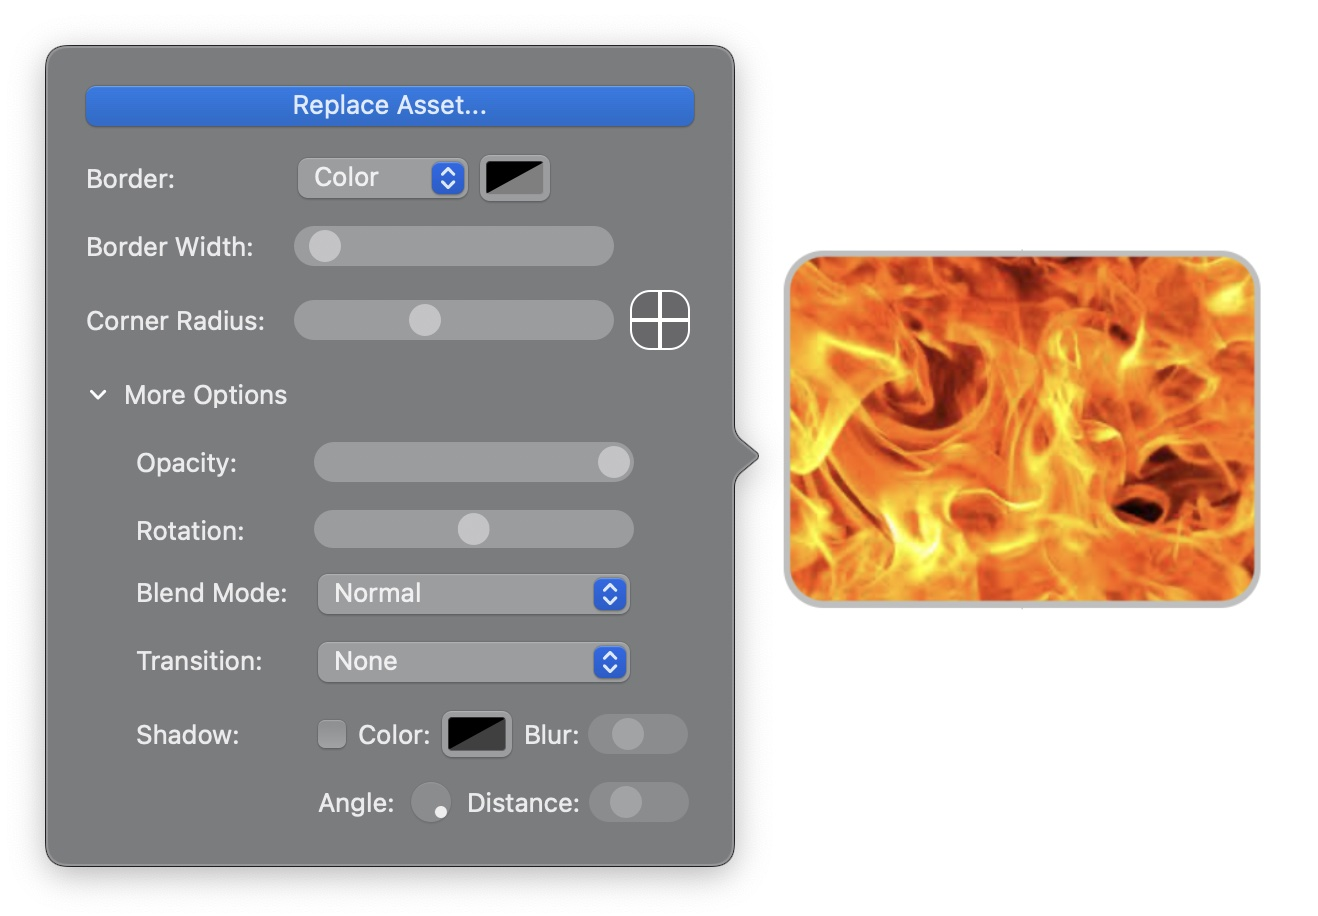
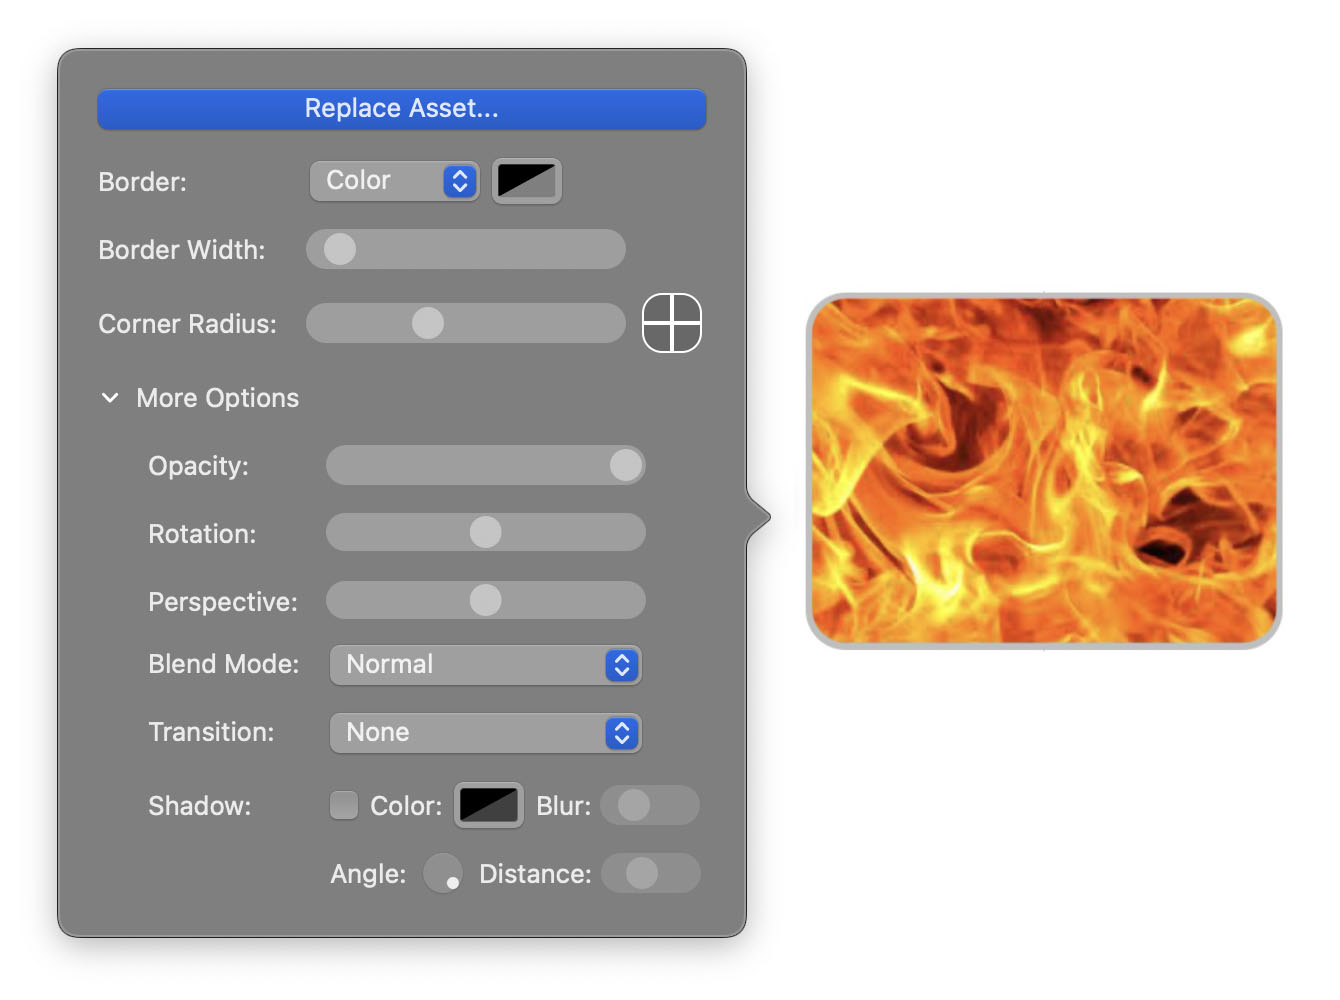
v4.2

diff --git a/docs/_ecamm-live-manual/016-virtual-webcam-and-outputs.md b/docs/_ecamm-live-manual/016-virtual-webcam-and-outputs.md
@@ -10,19 +10,19 @@ Ecamm Live's Virtual Webcam feature allows you to use all of the features of Eca
 
 Activate Virtual Webcam by choosing <samp>On</samp> in <samp>Outputs</samp> ➝ <samp>Virtual Webcam</samp>. It can also be activated using <samp>Virtual Cam</samp> toggle in the Mode menu at the top of the Main Window.
 
-![](/assets/img/vcamtoggle.jpg){: width="421px"}
+If this is your first time using the feature, you'll be prompted to install the Virtual Webcam System Extension. The installation process will prompt you for your Mac's administrator password. Once installed, macOS will automatically block the newly installed extension, and then prompt you to unblock it.
 
-If this is your first time using the feature, you'll be prompted to install the Virtual Webcam. Once installed, you may need to quit any video apps that are already open before the Virtual Webcam is recognized.
+![](/assets/img/blocked.png){: width="372px"}
+
+Click <samp>Allow</samp> in the <samp>Privacy & Security</samp> section of the System Settings application to complete the installation.
+
+![](/assets/img/privacy.png){: width="590px"}
+
+Once installed, you may need to quit any video apps that are already open before the Virtual Webcam is recognized.
 
 Once activated, Ecamm Virtual Webcam will show up as a camera option in other apps on your Mac, such as Zoom and Google Chrome. Select this option, and the app will use the output from Ecamm Live as a camera, including all Overlays, multi-camera layouts and Green Screen effects.
 
 Virtual Webcam will work even when you are not using Ecamm Live to broadcast or record.
-
-The feature will remain on until it is turned off in the <samp>Outputs</samp> menu, turning it off in the Mode menu at the top of the Main Window, or by clicking on the red {% inlineicon virtualcam 15 redbutton %}Virtual Camera Button{% endinlineicon %} button in the top left corner of the Main Window.
-
-### Some Apps Don't Support Virtual Webcams
-
-Note that some apps don't load virtual cameras at all.  This includes most Apple apps such as FaceTime and iMovie, as well as some third-party apps. Fortunately, Zoom works fine.
 
 ## Virtual Mic (Pro Only)
 
@@ -33,8 +33,6 @@ Activate Virtual Mic by choosing <samp>On</samp> in <samp>Outputs</samp> ➝ <sa
 If this is your first time using the feature, you'll be prompted to install the Virtual Mic. Once installed, you may need to quit any apps that are already open before the Virtual Mic is recognized.
 
 Once activated, Ecamm Virtual Mic will show up as a microphone option in other apps on your Mac, such as Zoom.
-
-The feature will remain on until it is turned off in the <samp>Outputs</samp> menu or by clicking on the red {% inlineicon virtualmic 15 redbutton %}Virtual Mic Button{% endinlineicon %} button in the top left corner of the Main Window.
 
 ## Video Monitor (Pro Only)
 

diff --git a/docs/_ecamm-live-manual/012-streaming.md b/docs/_ecamm-live-manual/012-streaming.md
@@ -33,7 +33,7 @@ The {% inlineicon sharebutton 15 %}share{% endinlineicon %} buttons in the statu
 
 ### Comments and Reactions
 
-During broadcasts, any chat comments your viewers post in Facebook, YouTube, Twitch, Amazon Live, or Restream will be displayed in the Comments and Reactions window. Reactions from Facebook and YouTube will also be displayed. If you don't see this window, pick it from the <samp>Windows</samp> menu at the top of the screen. 
+During broadcasts, any chat comments your viewers post in Facebook, Instagram, YouTube, Twitch, Amazon Live, X (Twitter), or Restream will be displayed in the Comments and Reactions window. Reactions from Facebook and YouTube will also be displayed. If you don't see this window, pick it from the <samp>Windows</samp> menu at the top of the screen. 
 
 During a broadcast, if there are comments, you'll see a {% inlineicon comment 20 graybutton %}Comment Button{% endinlineicon %} button in the bottom left-hand corner of the Main Window to reveal the Comments and Reactions window.
 
@@ -113,11 +113,13 @@ After clicking <samp class="blue">Finish</samp> we'll present you with a message
 
 <samp>{% inlineicon trash 15 inverted %}Trash Button{% endinlineicon %} Delete Post</samp> - If Ecamm Live can remove the post, you'll see an option to delete it.
 
-The next three items concern the recording of your broadcast. Much more on Recordings in the [Recording](../013-recording-your-broadcast) section, but for now…
+The next four items concern the recording of your broadcast. Much more on Recordings in the [Recording](../013-recording-your-broadcast) section, but for now…
 
 <samp>{% inlineicon magnify 15 inverted %}Show File Button{% endinlineicon %} Show File</samp> - click to reveal the recording file in the Finder.
 
 <samp>{% inlineicon yt 15 inverted %}Send To YouTube Button{% endinlineicon %} Send To YouTube</samp> - click to send the recording to a YouTube channel. Note that this option will not be shown if your live broadcast was to YouTube.
 
-<samp>{% inlineicon descript 15 inverted %}Edit in Descript Button{% endinlineicon %} Edit in Descript</samp> - click to send the recording to [Descript.com](https://www.descript.com) for editing and transcription.
+<samp>{% inlineicon scenery 15 inverted %}Quick Edit in Scenery Button{% endinlineicon %} Quick Edit in Scenery</samp> - click to send the recording to [Scenery](https://www.scenery.video) with three quick edit options: AI assisted edits, automatic subtitle creation, or custom edits.
+
+<samp>{% inlineicon descript 15 inverted %}Send to Descript Button{% endinlineicon %} Send to Descript</samp> - click to send the recording to [Descript.com](https://www.descript.com) for editing and transcription.
 

diff --git a/docs/_ecamm-live-manual/013-recording-your-broadcasts.md b/docs/_ecamm-live-manual/013-recording-your-broadcasts.md
@@ -26,7 +26,21 @@ To enable Record-Only mode, click the Mode menu at the top of the Main Window, a
 
 ![](/assets/img/recordonly.jpg){: width="421px"}
 
-When in [Record-Only mode](../013-recording-your-broadcasts/#record-only-mode), you'll see a <samp class="blue">Record</samp> button at the bottom of the Main Window. Click to begin recording. Record-Only mode has an [optional 3-second countdown](../018-other-options#record-only-countdown) before recording starts.
+When in [Record-Only mode](../013-recording-your-broadcasts/#record-only-mode), you'll see a <samp class="blue">Record</samp> button at the bottom of the Main Window. Click to begin recording. Record-Only mode has an [optional 3-second countdown](../018-other-options#record-only-countdown) before recording starts. You can also [optionally name your recording](../018-other-options/#recording-preferences) either at the beginning or end of your recording.
+
+## After a Recording
+
+After clicking <samp class="blue">Finish</samp> we'll present you with a message confirming your recording has ended, and offer several options for your next steps.
+
+![End Message](/assets/img/endrecording.jpg "End Message")
+
+<samp>{% inlineicon magnify 15 inverted %}Show File Button{% endinlineicon %} Show File</samp> - click to reveal the recording file in the Finder.
+
+<samp>{% inlineicon yt 15 inverted %}Send To YouTube Button{% endinlineicon %} Send To YouTube</samp> - click to send the recording to a YouTube channel.
+
+<samp>{% inlineicon descript 15 inverted %}Send to Descript Button{% endinlineicon %} Send to Descript</samp> - click to send the recording to [Descript.com](https://www.descript.com) for editing and transcription.
+
+<samp>{% inlineicon scenery 15 inverted %}Quick Edit with Scenery Button{% endinlineicon %} Quick Edit with Scenery</samp> - click to send the recording to [Scenery](https://www.scenery.video) with three quick edit options: AI assisted edits, automatic subtitle creation, or custom edits.
 
 ## Retrieving Your Past Recordings
 

diff --git a/docs/_ecamm-live-manual/001-welcome.md b/docs/_ecamm-live-manual/001-welcome.md
@@ -15,7 +15,7 @@ Why would you choose to use a Mac app to live stream, when you can stream straig
 * **Conduct live video interviews** with up to 10 remote guests. (Up to 4 guests on Intel-based Macs.)
 * **Record individual audio and video tracks** to your Mac.
 * **Add text, scrolling tickers, images, shapes, countdowns, web pages, PDFs and animations to your broadcast as overlays**, on-the-fly, or build them ahead of time.
-* When broadcasting to Facebook Live, YouTube Live, Amazon Live, Restream, and Twitch **view a live feed of your comments and reactions.** 
+* When broadcasting to Facebook Live, Instagram, YouTube Live, Amazon Live, X (Twitter), Restream, and Twitch **view a live feed of your comments and reactions.** 
 * Send your production into other Mac apps via Ecamm's **Virtual Camera** and **Virtual Mic**.
 * **Add viewer comments to your broadcast.** Simply drag them onto the window and they appear automatically as overlays.
 * **Use external video sources** including **HDMI** sources, **Canon DSLRs**, NDI inputs and more. 

diff --git a/docs/_ecamm-live-manual/018-other-options.md b/docs/_ecamm-live-manual/018-other-options.md
@@ -136,9 +136,13 @@ When recording isolated video for Camera A, Camera B, or Interview guests, check
 
 Ecamm Live can save audio recordings of your audio channels such as primary microphone, secondary microphone, sound effects, and individual [Interview](../008-interview-mode/) guests. This is also referred to as ISO audio recording.
 
-#### Recording File Format
+#### Video Recording File Format
 
 Select the format for Ecamm Live's local recordings. The default is .MOV format, however some services may prefer a .MP4 file instead. Note that the actual video and audio data in the file will be the same H.264 and AAC format for these options. (Only the container format changes.)
+
+#### Record-Only Prompt For File Name
+
+When using record-only mode, Ecamm Live can prompt you for a file name, either when the recording starts, or when it ends. If <samp>Never</samp> is chosen, recordings will be named Ecamm Live Recording with a date and time.
 
 #### Record-Only Countdown
 

diff --git a/docs/_ecamm-live-manual/002-the-main-window.md b/docs/_ecamm-live-manual/002-the-main-window.md
@@ -30,7 +30,7 @@ To record your stream, turn on the <samp>Record</samp> switch.
 
 For [Record-Only mode](../013-recording-your-broadcasts/#record-only-mode), turn off <samp>Stream</samp> and turn on <samp>Record</samp>.
 
-Use the <samp>Virtual Cam</samp> switch to quickly activate Ecamm Live's [Virtual Cam](../016-virtual-webcam-and-outputs/) and [Virtual Mic](../016-virtual-webcam-and-outputs/#virtual-mic-pro-only).
+Use the <samp>Virtual Cam</samp> switch to activate Ecamm Live's [Virtual Cam](../016-virtual-webcam-and-outputs/) and [Virtual Mic](../016-virtual-webcam-and-outputs/#virtual-mic-pro-only).
 
 ## Scene Selector
 

diff --git a/docs/_ecamm-live-manual/006-using-overlays.md b/docs/_ecamm-live-manual/006-using-overlays.md
@@ -290,6 +290,8 @@ Many settings have already been mentioned above. Several are common to all Overl
 
 * **Rotation:** Adjust the rotation angle of the Overlay.
 
+* **Perspective:** Apply a 3-D perspective effect to the Overlay.
+
 * **Blend Mode:** Blend modes can be used to create artistic scenes.
 
 * **Transition:** Overlays can slide or spin onto the screen from the left, right, top, or bottom. 
